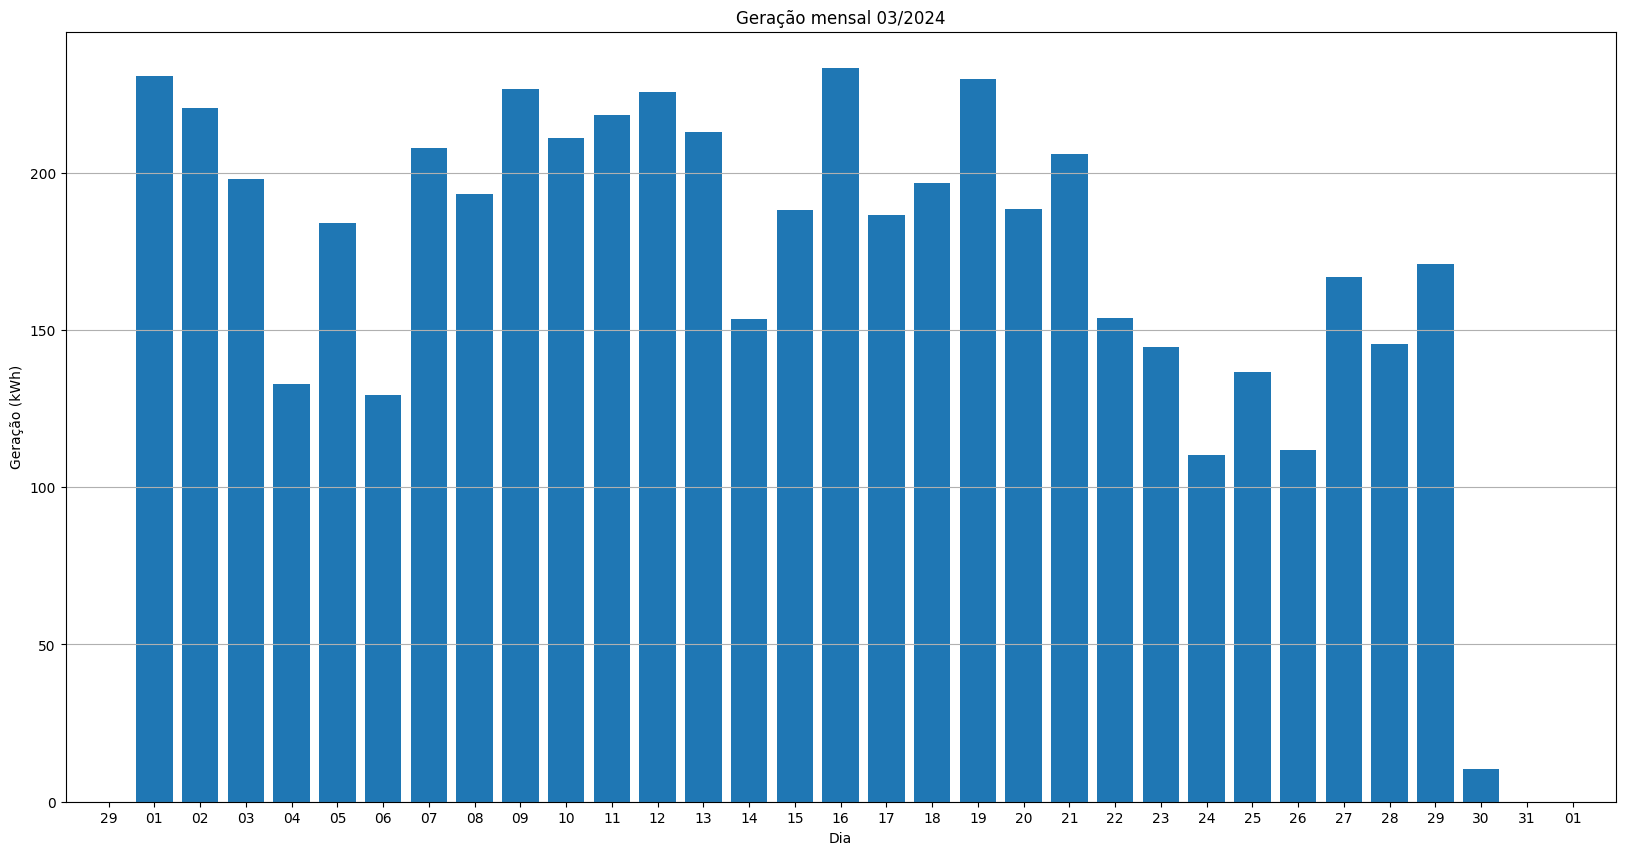
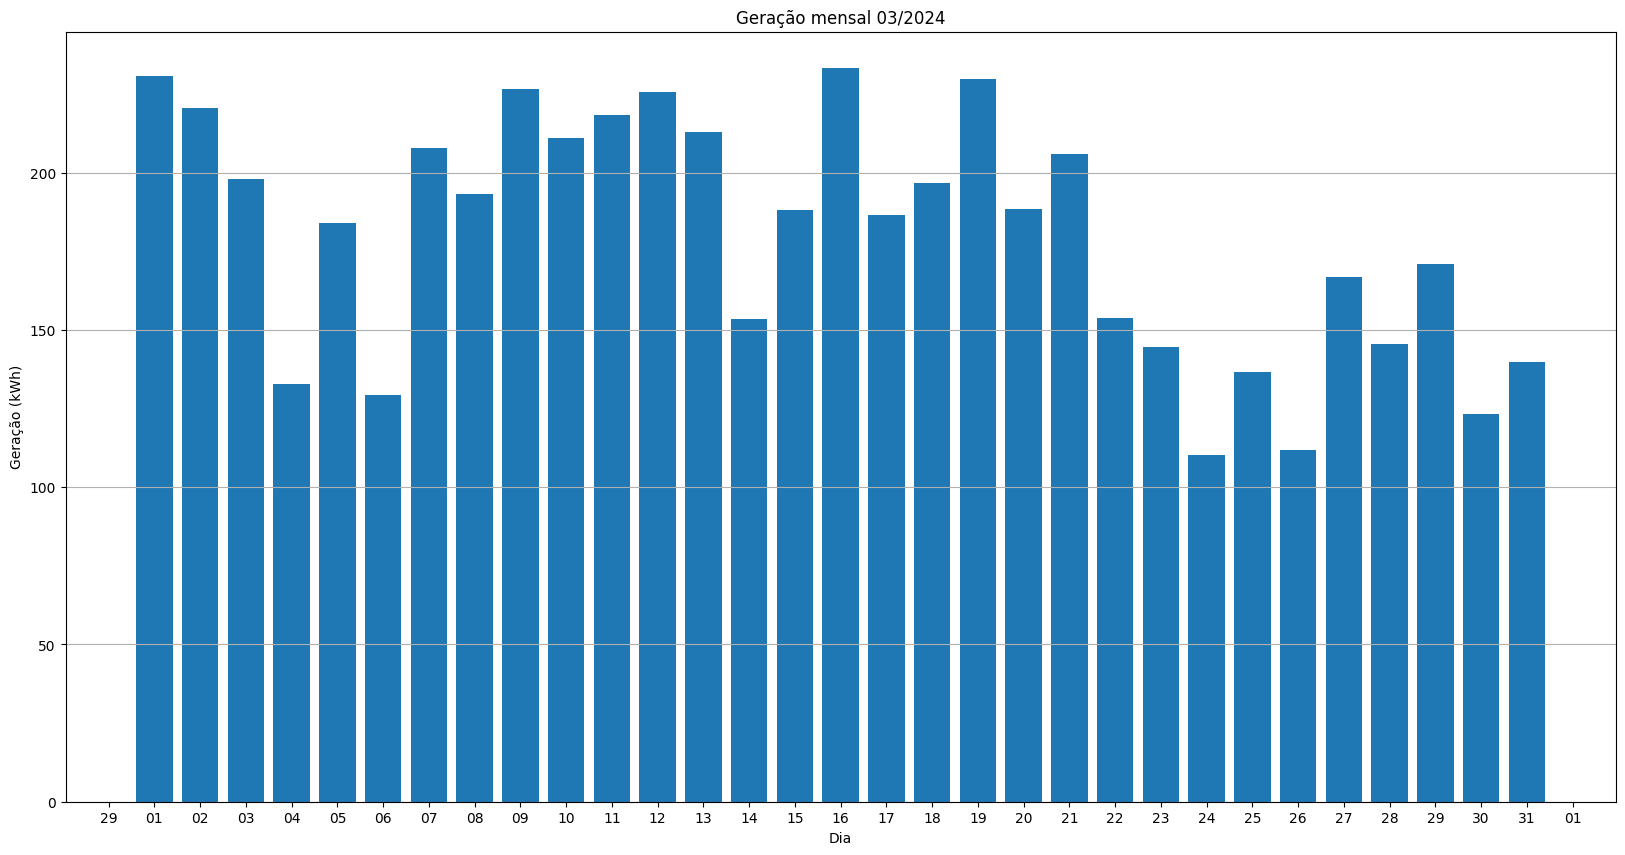
fix data for S1 readme 3/2024

Changed region(s): [[0.8923, 0.4257, 0.9538, 0.9427]]

diff --git a/data/s1/2024/3/README.md b/data/s1/2024/3/README.md
@@ -14,8 +14,8 @@
 | S1_BL19       | 7089.80 |
 | S1_BL13_1       | 5203.10 |
 | S1_BL13_2       | 2950.00 |
-| S1_BL14       | 5325.30 |
-| kWh_total       | 69323.10 |
+| S1_BL14       | 5578.00 |
+| kWh_total       | 69575.80 |
 # Geração Mensal por Inversor
 ## S1_BL20_1
 ![My Image](plots/S1_BL20_1.png)
